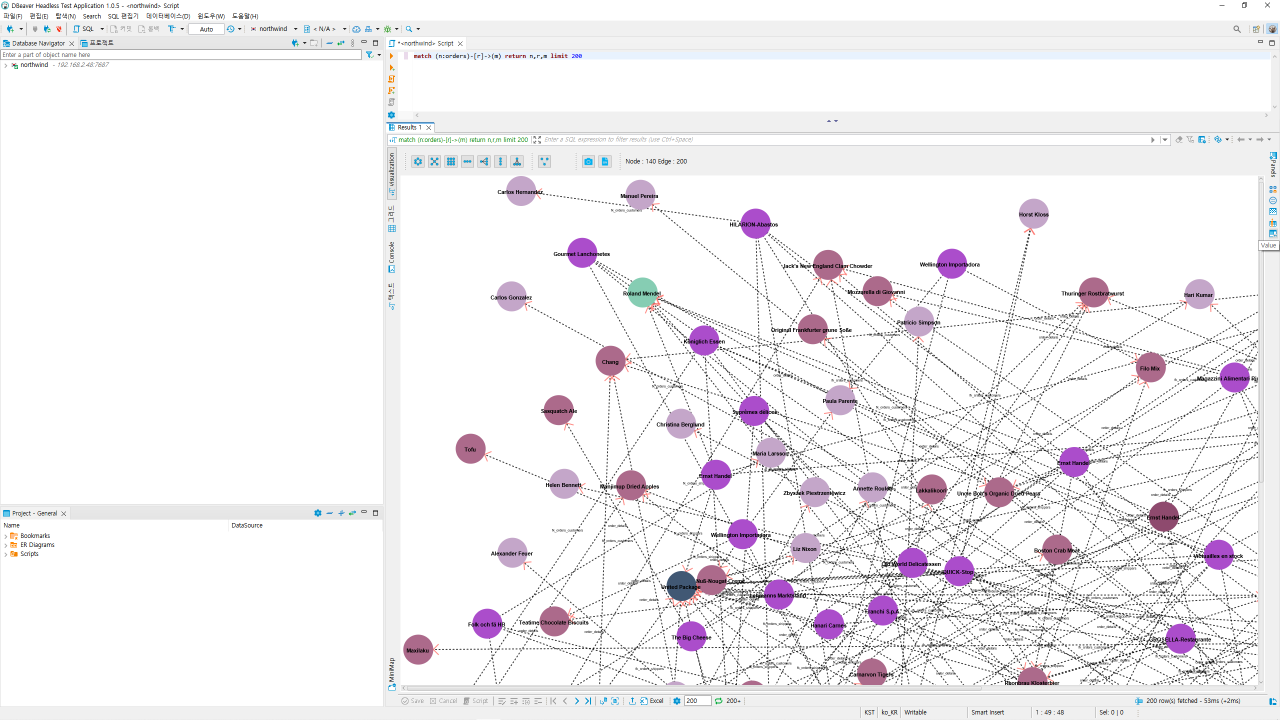
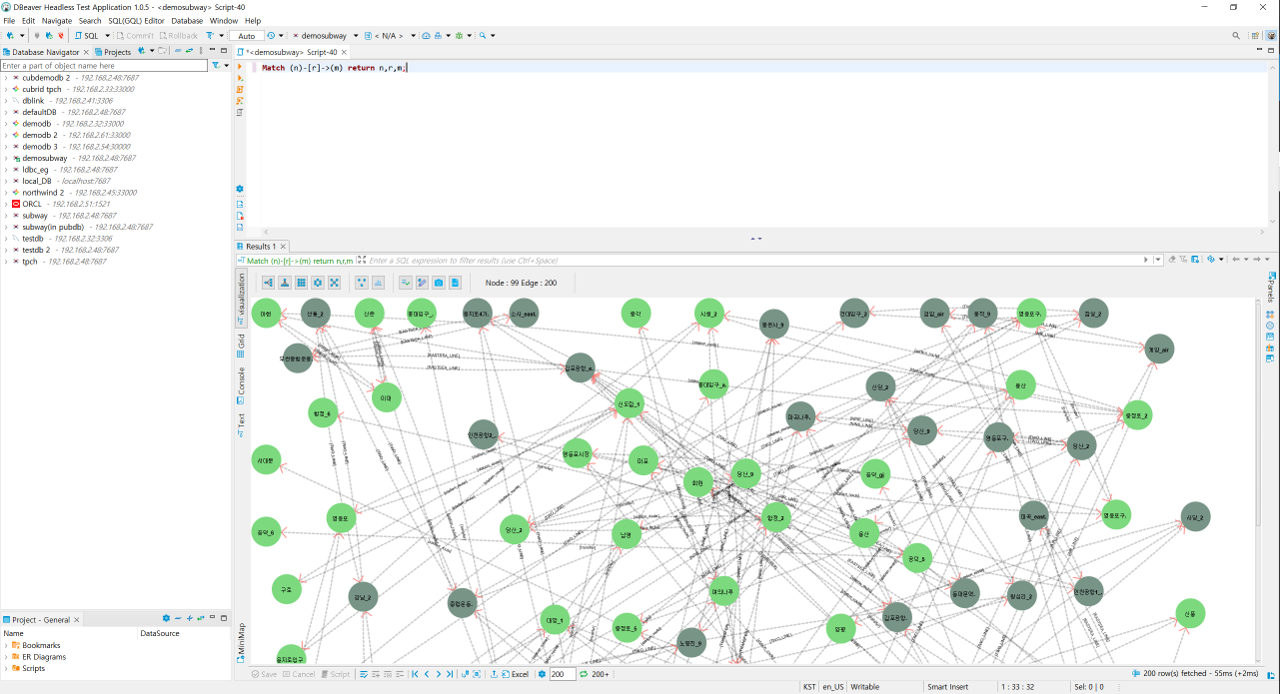
[GT-116] 3차년도 메뉴얼 작업 http://jira.iitp.cubrid.org/browse/GT-116
- 2023-12-13일 기준 3차년도 개발 내용을 추가하여 메뉴얼 작업
- 추가리스트
* 시각화 편집 기능
* Layout 정렬 기능
* 최단경로 구하기
* Chart 기능
* Value 창 변경 사항
* 디자인 편집 기능
* 질의 변환기

diff --git a/ViT_Manual/ko/start.rst b/ViT_Manual/ko/start.rst
@@ -6,11 +6,14 @@
 ViT 시작하기
 *************
 
-ViT로 Northwind DB(Neo4j) 연결/시작
+ViT로 DB(Neo4j) 연결/시작
 =============================================
 
-본 프로그램을를 처음 사용하는데 참고할 수 있는 간략한 사용법을 설명하며, 해당 화면들은 Windows 10 운영체제에서 실행 된 화면이다.
-2년차 메뉴얼에서는 TurboGraph++가 아닌 Neo4j에 생성된 northwind DB를 사용하여 진행 과정을 소개한다.
+본 프로그램을 처음 사용하는데 참고 할 수 있는 간략한 사용법을 설명하며, 해당 화면들은 Windows 10 운영체제에서 실행 된 화면이다.
+
+현재 TurboGraph++, Neo4J 두 가지로 접속 할 수 있도록 구성되어 있으며, 
+3년차인 현재 메뉴얼에서는 Neo4j에 생성된 DB를 사용하여 진행 과정을 소개한다.
+
 
 프로그램을 실행하면 WelCome 이미지가 나타나고 프로그램이 시작된다.
 
@@ -21,13 +24,16 @@ ViT로 Northwind DB(Neo4j) 연결/시작
 
 .. image:: /images/start/s1.png
   :width: 1024
-  
-Database 추가
+
+------------------------------
+Database 연결
 ------------------------------
 
-초기화면에서 TurboGraph++를 선택 후 [Next]를 동작하면 아래와 같이 Connection 설정 화면으로 이동된다.
+초기화면에서 TurboGraph++를 선택 후 [Next]를 동작하면 아래와 같이 Neo4j Connection 설정 화면으로 이동된다.
+TurboGraph++ (New)로는 TurboGraph++로 Connection 할 수 있다.
+추후 TurboGraph++만 지원 예정이다.
 
-.. image:: /images/start/s2.png
+.. image:: /images/start/selectdatabase.png
   :width: 1024
 
 Host : Host Name 또는 IP를 입력한다.
@@ -63,13 +69,14 @@ DataBase 추가
 .. image:: /images/start/s4.png
   :width: 1024
   
-연결 테스트 완료후에 [Finish]를 선택하면 아래와 같이 DataBase가 추가되고,
+연결 테스트 완료 후에 [Finish]를 선택하면 아래와 같이 DataBase가 추가되고,
 
 Database Navigator(연결 탐색기)에서 [v]을 통해 Tree를 확장하여 Node Type, Edge Type등을 확인 할 수 있다.
 
 .. image:: /images/start/s5.png
   :width: 1024
   
+------------------------------
 SQL(GQL) 편집기
 ------------------------------
 
@@ -82,11 +89,13 @@ Query 입력창을 통해서 Query를 입력할 수 있으며, 입력 후 [>]{SQ
 
 .. image:: /images/start/s7.png
   :width: 1024
-  
+
+------------------------------
 데이터 결과창
 ------------------------------
 
 이후 시각화 View가 표시되며 Query에서 결과 테이터를 시각화하여 표시된다.
+간선은 1:N, Self-loop 간선 등을 지원한다.
 
 .. image:: /images/start/s12.png
   :width: 1024
@@ -106,20 +115,30 @@ Query 입력창을 통해서 Query를 입력할 수 있으며, 입력 후 [>]{SQ
 .. image:: /images/start/s11.png
   :width: 1024
   
-Value 창으로 세부 정보 확인
+
+Mini Map
 ------------------------------
 
-빨간색 표시된 버튼을 통해 Value 창 표시 할 수 있으며,
+아래 화면에서 빨간색 표시부분 [MiniMap] 버튼을 사용하면 MiniMap을 열거나 닫을 수 있다.
+추가 기능 사항으로 미니맵에 포인트 표시 및 이동 기능이 추가 되어 
+미니맵 내 마우스 클릭 시 이동 및 포인트 표시가 가능하다.
 
-마우스를 통해 Node, Edge를 한번 클릭하면 클릭,선택 된 Node, Edge 정보 (Label, ID, Propery 값)를 확인 할 수 있다.
-
-.. image:: /images/start/s13.png
+.. image:: /images/start/s18.png
   :width: 1024
-  
+
+확대 축소 하기
+------------------------------
+
+아래 화면에서 노란색 표시부분 [+],[-] 버튼을 사용하면 확대/축소가 가능하다.
+또한 < Ctrl + 키보드+ >, < Ctrl + 키보드- > 를 통해서도 확대/축소가 가능하다.
+
+.. image:: /images/start/s19.png
+  :width: 1024
+
 HighLight 설정
 ------------------------------
 
-Node를 마우스로 두번 클릭하면 선택 된 노드가 빨간색 테두리를 통해 표시된다.
+Node를 마우스로 두번 클릭하면 선택 된 정점이 빨간색 테두리를 통해 표시된다.
 마우스 오른쪽 버튼으로 팝업 메뉴를 활성화 할 수 있다.
 이후 [HighLight]를 선택하면 Node와 연결 된 Edge 및 Target Node가 HighLight되어 표시 된다.
 
@@ -133,41 +152,157 @@ HighLight 해제
 ------------------------------
 
 HighLight를 해제 하기 위해서는 마우스 오른쪽 버튼은 팝업 메뉴를 활성화 한 후
-[unHighLight]를 선택하거나 다른 노드를 두번 클릭하여 선택하면 해제 된다.
+[unHighLight]를 선택하거나 다른 정점을 두번 클릭하여 선택하면 해제 된다.
 
 .. image:: /images/start/s16.png
   :width: 1024
   
-Mini Map
+시각화 편집 기능
 ------------------------------
 
-아래 화면에서 빨간색 표시부분 [MiniMap] 버튼을 사용하면 MiniMap을 열거나 닫을 수 있다.
+HighLight 기능과 마찬가지로 팝업 메뉴 활성화하여 시각화 된 화면에 정점 및 간선 삭제 기능이 제공된다.
+Undo, Redo를 통해 최대 5개 까지 저장하여 삭제 및 복원이 가능하다.
 
-.. image:: /images/start/s18.png
+.. image:: /images/start/s21.png
   :width: 1024
-  
-확대 축소 하기
+
+표시 데이터 개수 설정
 ------------------------------
 
-아래 화면에서 빨간색 표시부분 [+],[-] 버튼을 사용하면 확대/축소가 가능하다.
-또한 < Ctrl + 키보드+ >, < Ctrl + 키보드- > 를 통해서도 확대/축소가 가능하다.
+아래 화면에서 노란색으로 표시된 값에 따라 결과 Data Row 개수를 설정 할 수 있으며,
+Default 값는 200이다. PC 성능에 따라 개수를 조절하여 사용 할 수 있다.
 
-.. image:: /images/start/s19.png
+.. image:: /images/start/s20.png
   :width: 1024
-  
+
+
+기타 기능
+=============================================
+
+------------------------------
+Layout 정렬 기능
+------------------------------
+
+-	시각화 된 결과를 총 5가지 형식으로 정렬하는 기능
+1.	Horizontal Tree (수평 가지형태로 표시)
+2.	Vertical Tree (수직 가지 형태로 표시)
+3.	Grid (일정한 간격으로 격자 형태로 표시)
+4.	Circle (그룹 별로 묶어 원형 형태로 표시)
+5.	Spring (서로 붙지 않도록 스프링처럼 서로 미는 형태)
+
+.. image:: /images/start/layout_horizontal_tree.png
+  :width: 512
+  :alt: Horizontal Tree
+
+*Horizontal Tree*
+
+.. image:: /images/start/layout_grid.png
+  :width: 512
+  :alt: Grid
+
+*Grid*
+
+.. image:: /images/start/layout_circle.png
+  :width: 512
+  :alt: Circle
+
+*Circle*
+
+.. image:: /images/start/layout_spring.png
+  :width: 512
+  :alt: Spring
+
+*Spring*
+
+------------------------------
+최단 경로 구하기
+------------------------------
+최단 경로(Shotest Path) 기능은 두 정점을 선택하여 최단 경로를 구하는 기능이다.
+
+빨간색 표시 메뉴를 선택하면 노란색 창이 나타나며,
+이후 첫번째 노드를 더블 클릭한 후 노란책 창에 콤보 박스로 이용하여 가중치를 선택 할 수 있다.
+가중치 선택은 Default(가중치 1)와 Property 값들이다.
+
+Default일 경우 모든 경로 당 가중치를 1로 계산하여 경로가 표시되고,
+
+Property를 선택 할 경우 Property 타입이 정수 일 경우 해당 Property의 정수 값을 가중치로 계산하여 경로가 표시된다.
+Property 값이 정수가 아닐 경우에는 가중치 1로 계산된다.
+
+.. image:: /images/start/shortest_path.png
+  :width: 1024
+
+------------------------------
+Chart 기능
+------------------------------
+
+Chart 기능은 정점과 속성을 선택하여 그래프에 표시 된 정점을 대상으로 분포도를 확인 할 수 있는 기능이다.
+
+빨간색 표시된 버튼을 통해 Chart 기능을 활성화 할 수 있고,
+
+노란색 표시된 Chart 창을 통해 정점과 속성을 선택하여 분포도를 확인 할 수 있다.
+
+
+.. image:: /images/start/chart.png
+  :width: 1024
+
+------------------------------
+Value 창으로 세부 정보 확인
+------------------------------
+
+빨간색 표시된 버튼을 통해 Value 창 표시 할 수 있으며,
+
+마우스를 통해 정점, 간선를 한번 클릭하면 선택 된 정점 또는 간선 정보 (ID, Label, Type, Propery 값)를 확인 할 수 있다.
+
+행을 선택 후 오른쪽 마우스 버튼으로 Context 메뉴를 활성화 하면 값 또는 이름을 복사 할 수 있는 메뉴가 나타난다.
+
+
+.. image:: /images/start/s13.png
+  :width: 1024
+
+
+------------------------------
+디자인 편집 기능
+------------------------------
+
+빨간색 표시된 버튼을 통해 디자인 편집 기능을 활성화 할 수 있으며,
+노란색으로 활성화 된 창을 통해 정점의 Label, 간선의 Type을 그룹별로 디자인 편집이 가능하다.
+
+정점은 크기, 색상, 글자 크기등을 변경 할 수 있고 
+정점 내부에 표시되는 글자는 ID, LABEL, Property를 선택하여 보여지는 글자를 변경 할 수 있다.
+
+간선은 간선의 모양, 두께, 색상, Type의 글자 크기를 변경 할 수 있다.
+
+.. image:: /images/start/design_edit.png
+  :width: 1024
+
+------------------------------
 Capture 하기
 ------------------------------
 
-아래 화면에서 빨간색으로 표시된 [사진기] 버튼을 통해 시각화 View 내용을 그림파일로 저장할 수 있다.
+아래 화면에서 노란색으로 표시된 [사진기] 버튼을 통해 시각화 View 내용을 그림파일로 저장할 수 있다.
 
 .. image:: /images/start/s17.png
   :width: 1024
   
-표시 데이터 개수 설정
+------------------------------
+결과 데이터 CSV 파일로 내보내기
 ------------------------------
 
-아래 화면에서 빨간색으로 표시된 값에 따라 결과 Data Row 개수를 설정 할 수 있으며,
-Default 값는 200이다. PC 성능에 따라 개수를 조절하여 사용 할 수 있다.
+빨간색으로 표시 된 버튼을 통해 csv 파일을 저장할 경로와 이름을 설정할 수 있다.
+설정 완료 후 [OK]를 누르면 CSV 파일로 저장이 완료 된다.
 
-.. image:: /images/start/s20.png
+.. image:: /images/start/export_csv.png
+  :width: 1024
+
+------------------------------
+질의 변환기
+------------------------------
+
+TurboGraph++ 연결 시 아래 화면에 표시 된 것 처럼 질의편집기 상단에 질의 변환기가 표시된다.
+
+전체 정점의 라벨과 속성, 간선의 타입과 속성을 선택 할 수 있으며,
+지원하는 비교 연산자과 값을 입력 후 빨간 색으로 표시된 버튼을 사용하면
+간단한 Cypher 질의로 변환 할 수 있다.
+
+.. image:: /images/start/query_tran.png
   :width: 1024

diff --git a/ViT_Manual/ko/intro.rst b/ViT_Manual/ko/intro.rst
@@ -24,10 +24,10 @@ ViT 구조
 
 본 과제의 시각화 도구는 Eclipse RCP로 개발된 DBeaver를 기반으로, 
 시각화 및 데이터 분석 기능을 확장한다.
-시각화 기능 확장을 위해 Gephi Lib를 사용하며, 이를 통해 그래프(Graph)를 관리하고 분석한다.
+시각화 기능 확장을 위해 Java Lib를 사용하며, 이를 통해 그래프(Graph)를 관리하고 분석한다.
 관리, 분석된 데이터(Data)는 JAVAFX Lib를 이용하여 시각화 되어 물리적으로 표현된다.
 기본적인 연결, 데이터 통신 등의 인터페이스(interface)부분을 표준화된 JDBC를 구현,사용하여 그래프 DBMS와 통신할 수 있도록 구조화한다.
-그래프 드라이버는 TurboGraph++에서 제공하는 Server for GQL을 이용하여 TurboGraph++와 통신을 하게 된다. 
+그래프 드라이버는 TurboGraph++에서 제공하는 API Server 와 CUBRID Broker,CAS 구조로 되어 있는 Server 을 이용하여 TurboGraph++와 통신을 하게 된다. 
 
 
 관련 내용
@@ -52,14 +52,16 @@ SQL을 보완하기 위한 독립 실행형 그래프 질의 언어로 기존 Op
 
 .. image:: /images/gql.png
 
-Gephi (gephi.org)
+JavaFX (openjfx.io)
 -------------
 
-Gephi는 공개 소프트웨어 그래프 시각화 플랫폼으로 네트워크를 분석하고 대형 그래프를 시각화를 지원하는 도구이다. Gephi는 Netbeans Framework의 기본 적인 틀에 다양한 Plug-in 업데이트를 통해 개발되었다.
-탐색 데이터 분석, 링크 분석하고 데이터를 필터링 할 수 있다.
+JavaFX는 공개 소프트웨어 그래프 시각화 플랫폼으로 네트워크를 분석하고 대형 그래프를 시각화를 지원하는 도구이다. 
 
-.. image:: /images/gephi.png
+JavaFX는 Framework의 기본 적인 틀에 다양한 Plug-in 업데이트를 통해 개발되었다.
 
-본 과제에서는 Netbeans Platform과 UI Module이 제거된 Gephi Toolkit을 이용하여 Eclipse RCP환경에서 Graph를 관리하고 분석할 수 있도록 개발할 예정이다.
+데이터를 시각화, 차트화 하는데 사용 된다.
 
-.. image:: /images/gephi_toolkit.png
+.. image:: /images/javafx.png
+
+본 과제에서는 JavaFX와 e(fx)clipse을 이용하여 Eclipse RCP환경에서 Graph를 관리하고 분석할 수 있도록 개발 되었다.
+

diff --git a/ViT_Manual/ko/index.rst b/ViT_Manual/ko/index.rst
@@ -5,7 +5,7 @@
 .. _reference-index:
 
 #########################
-ViT 1.0 사용자 매뉴얼
+ViT v2.0 사용자 매뉴얼
 #########################
 
 주제별 빠른 링크 모음
@@ -24,7 +24,7 @@ ViT 1.0 사용자 매뉴얼
 +--------------------------------+
 | :doc:`start`                   |
 +--------------------------------+
-| :doc:`release_note/index.rst`  |
+| :doc:`release_note/index`  |
 |                                |
 +--------------------------------+
 |                                |
